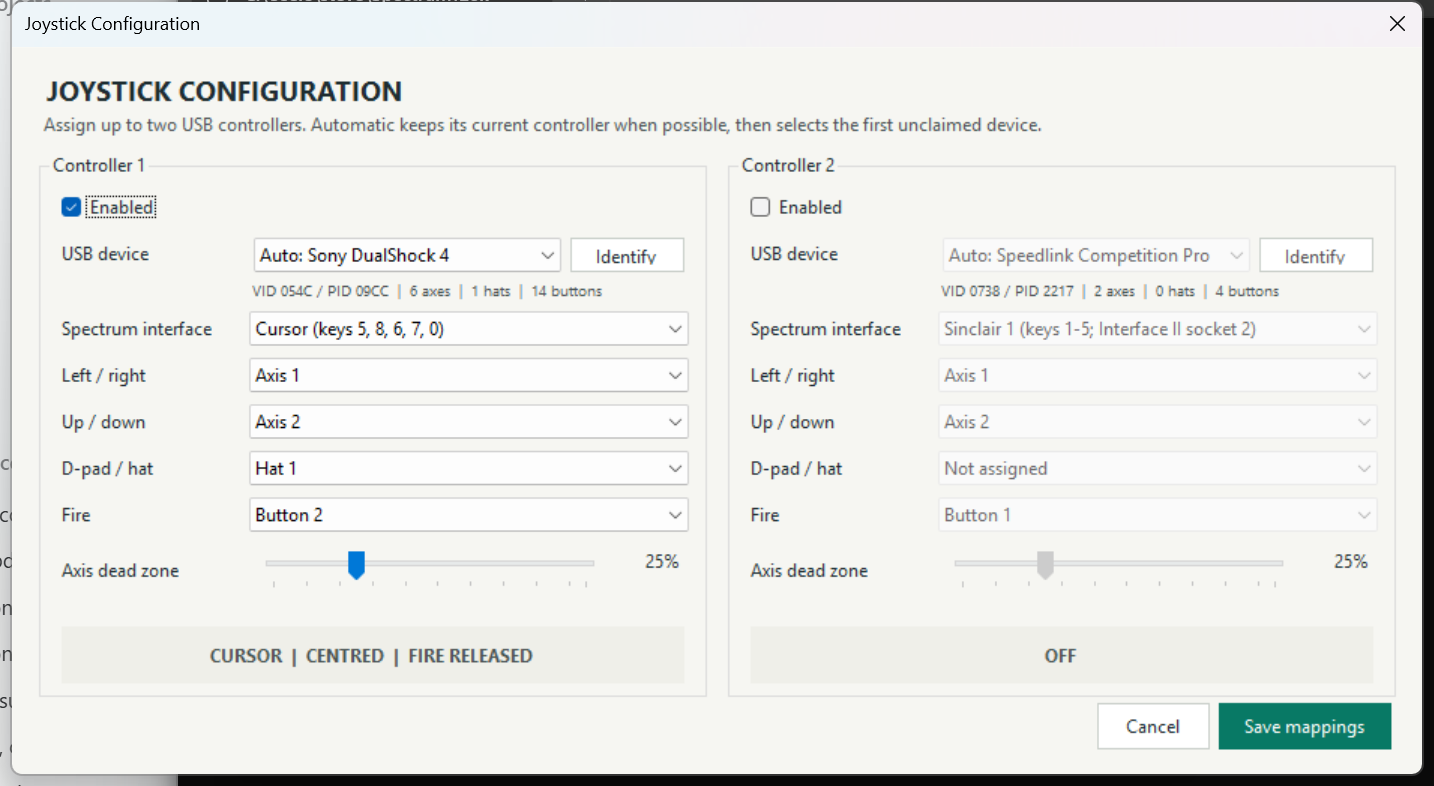
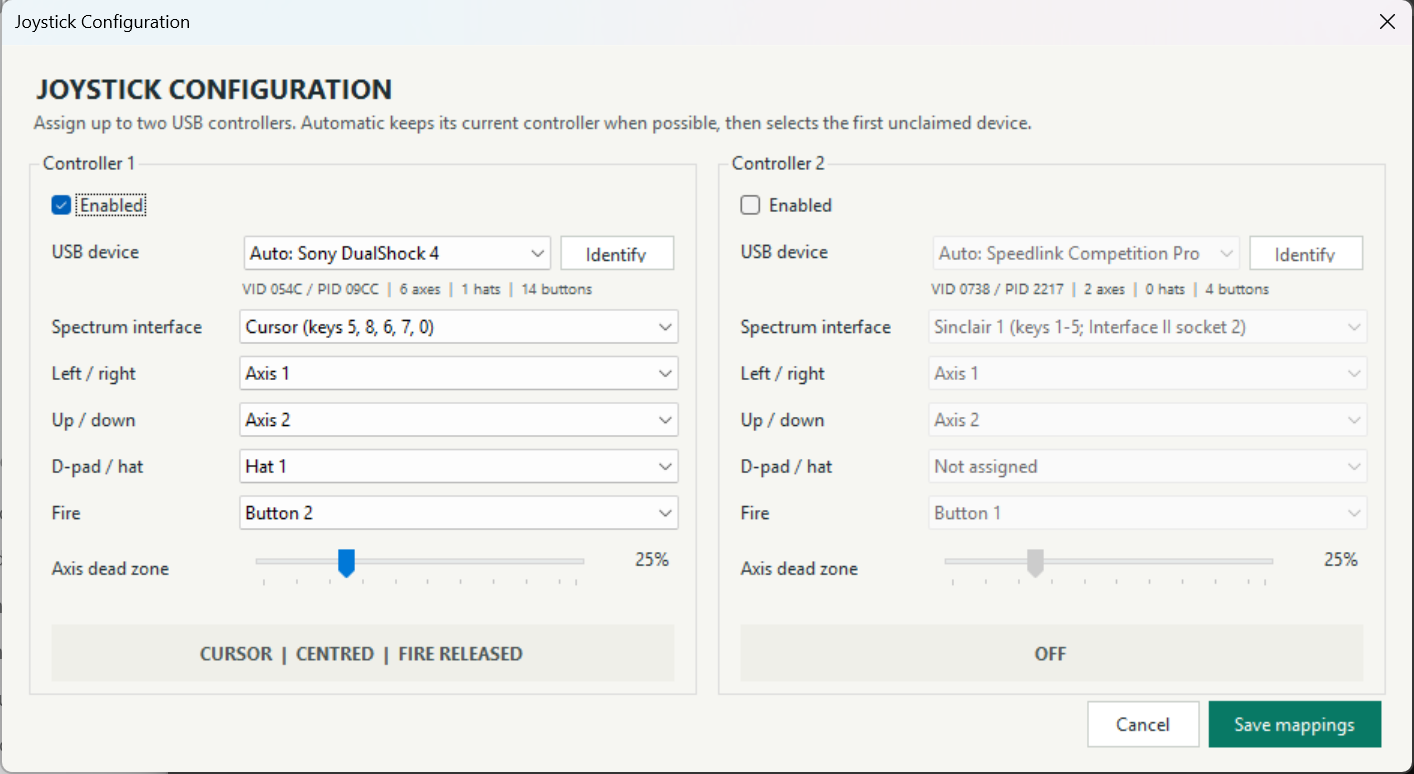
Refresh documentation and screenshots for +3 disk support

diff --git a/Derby.Windows/Forms/EmulatorHelpForm.cs b/Derby.Windows/Forms/EmulatorHelpForm.cs
@@ -16,8 +16,8 @@ namespace Derby
                 ("F4", "Cycle 1x Native, 2x Enhanced, and 3x Enhanced"),
                 ("F5", "Stop or resume tape; its state appears in the on-screen transport badge"),
                 ("F6", "Open or close the paused debugger and disassembler"),
-                ("F7", "Open the paused eight-slot Quick State Manager to save, replace, or load a persistent state"),
-                ("Right-click", "Open the quick menu for joystick selection and the Poke Manager")
+                ("F7", "Open the paused eight-slot Quick State Manager (not available on +3)"),
+                ("Right-click", "Open the full emulator menu, including media, joystick settings, and the Poke Manager")
             ]),
             new("Loading and diagnostics",
             [
@@ -61,7 +61,7 @@ namespace Derby
             [
                 ("Controller 1 / 2", "Configure and monitor two independent host controllers"),
                 ("Off", "Disconnect that controller channel from the emulated machine"),
-                ("Automatic", "Use the first host controller not claimed by the other channel"),
+                ("Automatic", "Keep the current device, then prefer its profile or use an unclaimed device"),
                 ("Kempston", "Expose active-high directions and Fire through port 1FH"),
                 ("Cursor", "Map directions and Fire to keys 5, 8, 6, 7, and 0"),
                 ("Sinclair", "Sinclair 1 uses keys 1-5 (socket 2); Sinclair 2 uses keys 6-0 (socket 1)"),

diff --git a/docs/USER_GUIDE.md b/docs/USER_GUIDE.md
@@ -105,7 +105,7 @@ The context menu presents assigned function-key actions in order, followed by jo
 
 ![Complete right-click context menu](images/context-menu.png)
 
-*Figure 2.2. The complete menu mirrors the function-key order and keeps unavailable actions visible but disabled.*
+*Figure 2.2. Disk Drive (F8) starts the media group, followed by snapshot, replay, and tape commands. Unavailable actions remain visible but disabled.*
 
 ## Chapter 3 - Display And Status
 
@@ -121,7 +121,7 @@ The enhanced modes use pixel-art scaling rather than smoothing the image as an o
 
 ### Status Overlay
 
-Press `F2` to show or hide compact mint diagnostics at the top-right. FPS, the active 48K/128K timing family, tape state, and display mode appear on separate right-aligned lines, moving below full tape feedback when necessary. The diagnostics can remain hidden during normal play.
+Press `F2` to show or hide compact mint diagnostics at the top-right. FPS, model, tape state, and display mode appear on separate right-aligned lines, moving below full tape feedback when necessary. The model line shows `+3` for the +3 and the 48K/128K timing family for other profiles.
 
 ### Window Title
 
@@ -258,6 +258,10 @@ The emulator also handles supported TZX pauses, stop markers, tape end, and dete
 1. Press `F8` or choose **F8 - Disk Drive**, the first item in the right-click menu's media group.
 2. Choose **Insert** and select a `.dsk` image. If another model is selected, confirm the reset to +3.
 3. Close the dialog and press Enter on **Loader** in the Spectrum +3 menu.
+
+![Read-only +3 Disk Drive dialog with drive A: empty](images/plus3-disk-drive.png)
+
+*Figure 6.1. The drive dialog pauses emulation and shows whether a disk is inserted.*
 
 Drive A: is read-only. **Replace** and **Eject** work without resetting the +3.
 Use **Replace** if a running game asks for a different disk. The dialog pauses
@@ -432,7 +436,7 @@ The debugger includes:
 - Mapped 64K, every ROM bank in the selected profile, and all eight physical RAM banks.
 - Current paging map and active display bank.
 - Main and alternate registers.
-- Individual flags, interrupt state, HALT state, and T-states.
+- Individual flags, interrupt state, HALT state, the `WZ` latch, and T-states.
 - Four stack words and the instruction at `PC`.
 - Disassembly listing, targets, breakpoints, cross-references, and memory inspection.
 
@@ -475,7 +479,7 @@ The **Memory View** selector distinguishes:
 - Individual 16K RAM banks.
 
 The four paging blocks show which ROM/RAM occupies `0000-3FFF`, `4000-7FFF`,
-`8000-BFFF`, and `C000-FFFF`. This includes +2A all-RAM configurations. The
+`8000-BFFF`, and `C000-FFFF`. This includes +2A and +3 all-RAM configurations. The
 display-bank label identifies the RAM bank currently scanned by the ULA. The
 summary retains the selected 48K, 128K, grey +2, +2A, or +3 profile name. Selecting
 a physical ROM or RAM view highlights a paging block only when that bank is

diff --git a/README.md b/README.md
@@ -25,7 +25,7 @@ This project focuses on correctness, clean architecture, and incremental develop
 - Up to two simultaneous USB joysticks with independently selectable Kempston, Cursor, and game-facing Sinclair 1/2 mappings, stable per-device control profiles, automatic or explicit controller selection, live identification, and configurable raw-axis, hat, fire-button, and dead-zone mapping
 - Platform-neutral headless core with Windows presentation/audio adapters
 - Paused `F6` debugger with immutable mapped/physical-bank captures, a visual paging map, grouped CPU/stack context, execution controls, breakpoints, bank-qualified labels, control/data cross-references, hexadecimal memory inspection, persistent code/data markings, search, navigation, copy, and export
-- Paused `F7` Quick State Manager with eight persistent slots, clean thumbnails, metadata, and complete live-session machine/media restoration
+- Paused `F7` Quick State Manager with eight persistent slots, thumbnails, metadata, and live-session restoration for supported models (not +3)
 - Paused Poke Manager with an editable validated library, checksum-aware suggestions, mapped or physical-bank one-off writes, previews, and guarded restoration
 - Headless manual diagnostics and Z80 compliance runners
 

diff --git a/docs/DESIGN_LANGUAGE.md b/docs/DESIGN_LANGUAGE.md
@@ -140,7 +140,7 @@ All styled buttons use `EmulatorUiStyle.StyleButton`. Do not locally recreate th
 
 ![Complete emulator context menu](images/context-menu.png)
 
-*Figure 3. The context menu follows function-key order, uses separators to group related tasks, shows disabled commands in place, and places non-function-key tools last.*
+*Figure 3. The context menu follows function-key order, starts the media group with Disk Drive (F8), shows disabled commands in place, and places non-function-key tools last.*
 
 - Retain native Windows menu rendering and submenu arrows.
 - Put keyboard shortcuts at the start of the label where the current menu does so.

diff --git a/test-assets/ula/README.md b/test-assets/ula/README.md
@@ -1,6 +1,6 @@
 # ULA Timing Validation
 
-Milestone 16 is checked against the published diagnostic programs in the
+ULA timing is checked against the published diagnostic programs in the
 [ZX-M8XXX test collection](https://github.com/Bedazzle/ZX-M8XXX):
 
 - Patrik Rak's Timing Test 0.3, based on Jan Bobrowski's zxtests
